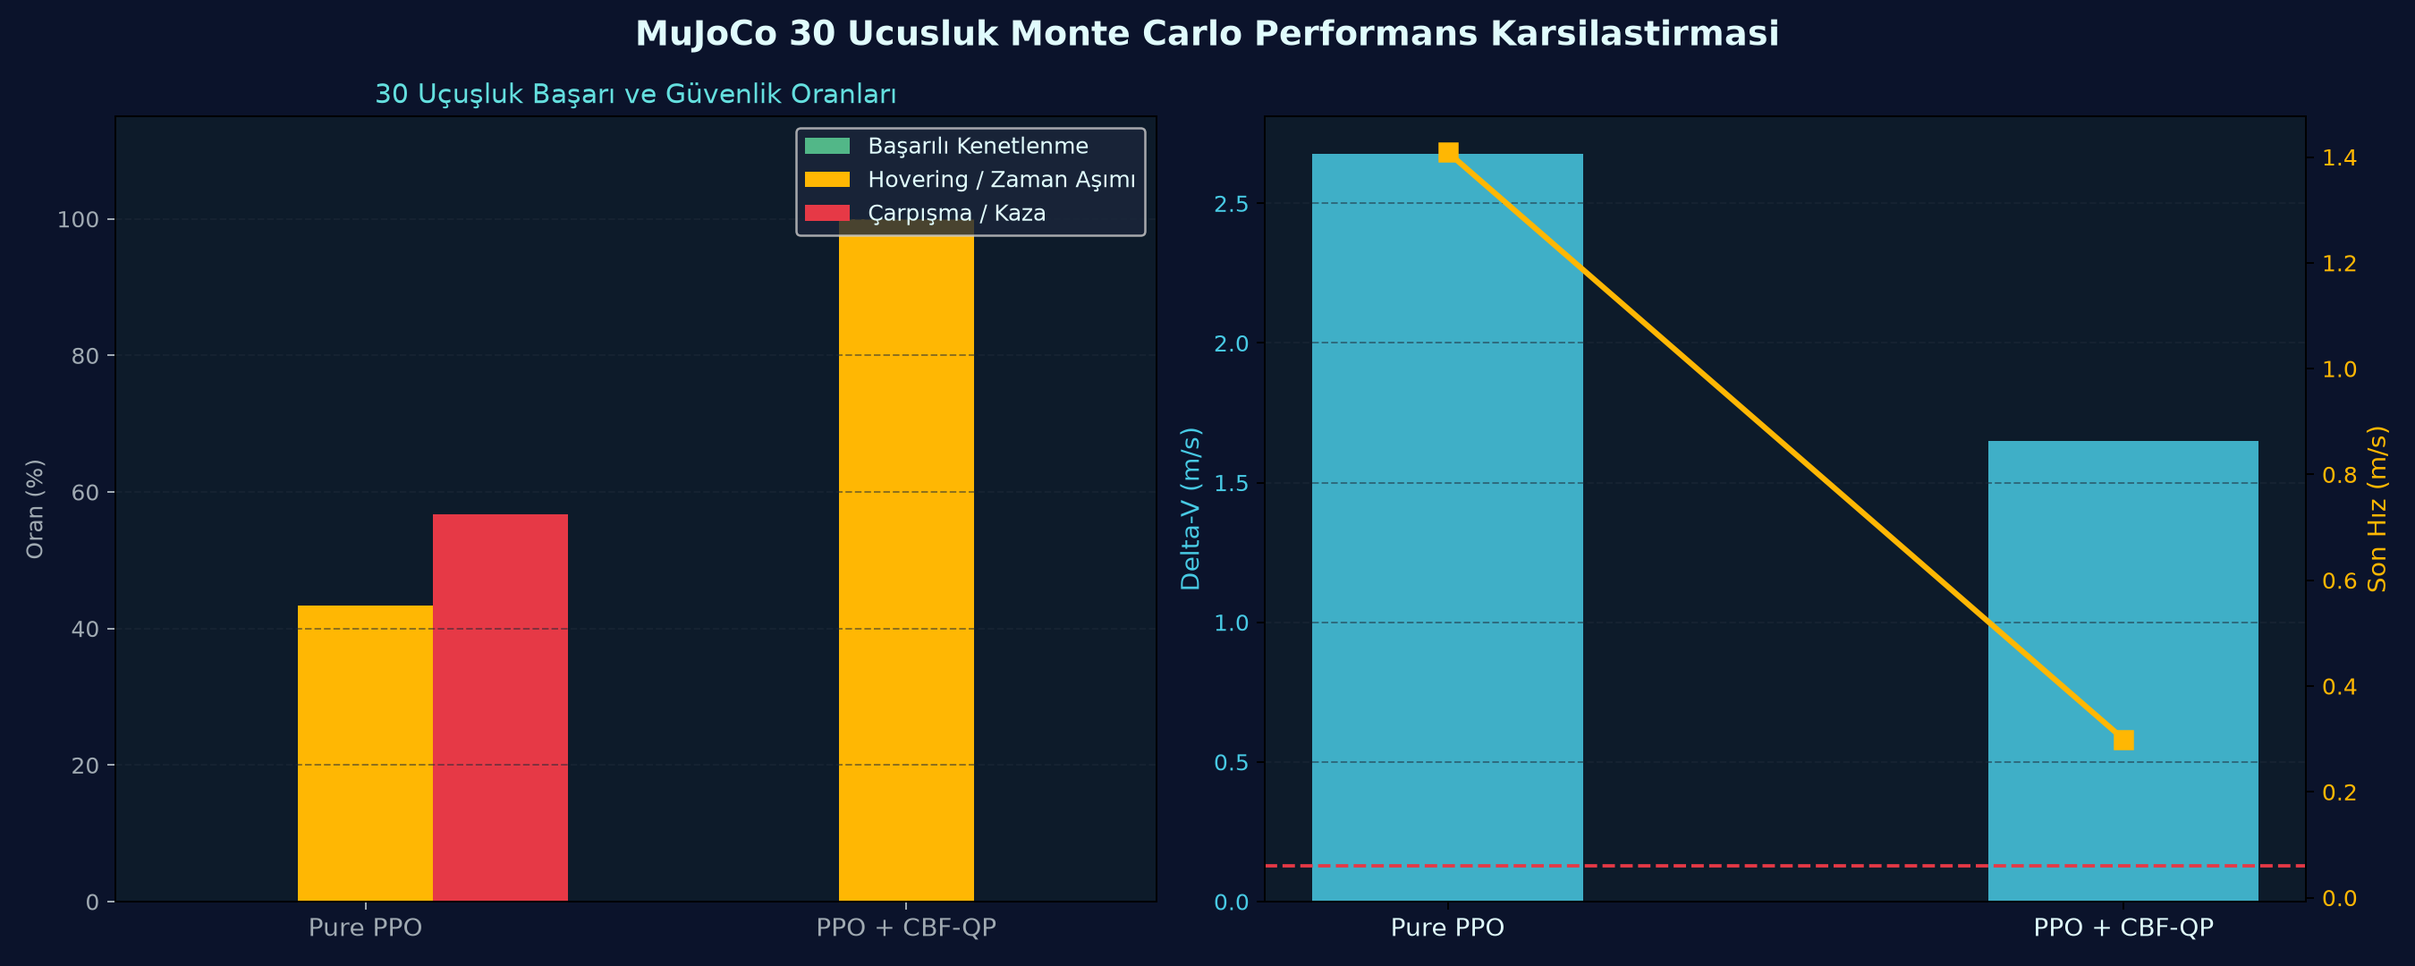
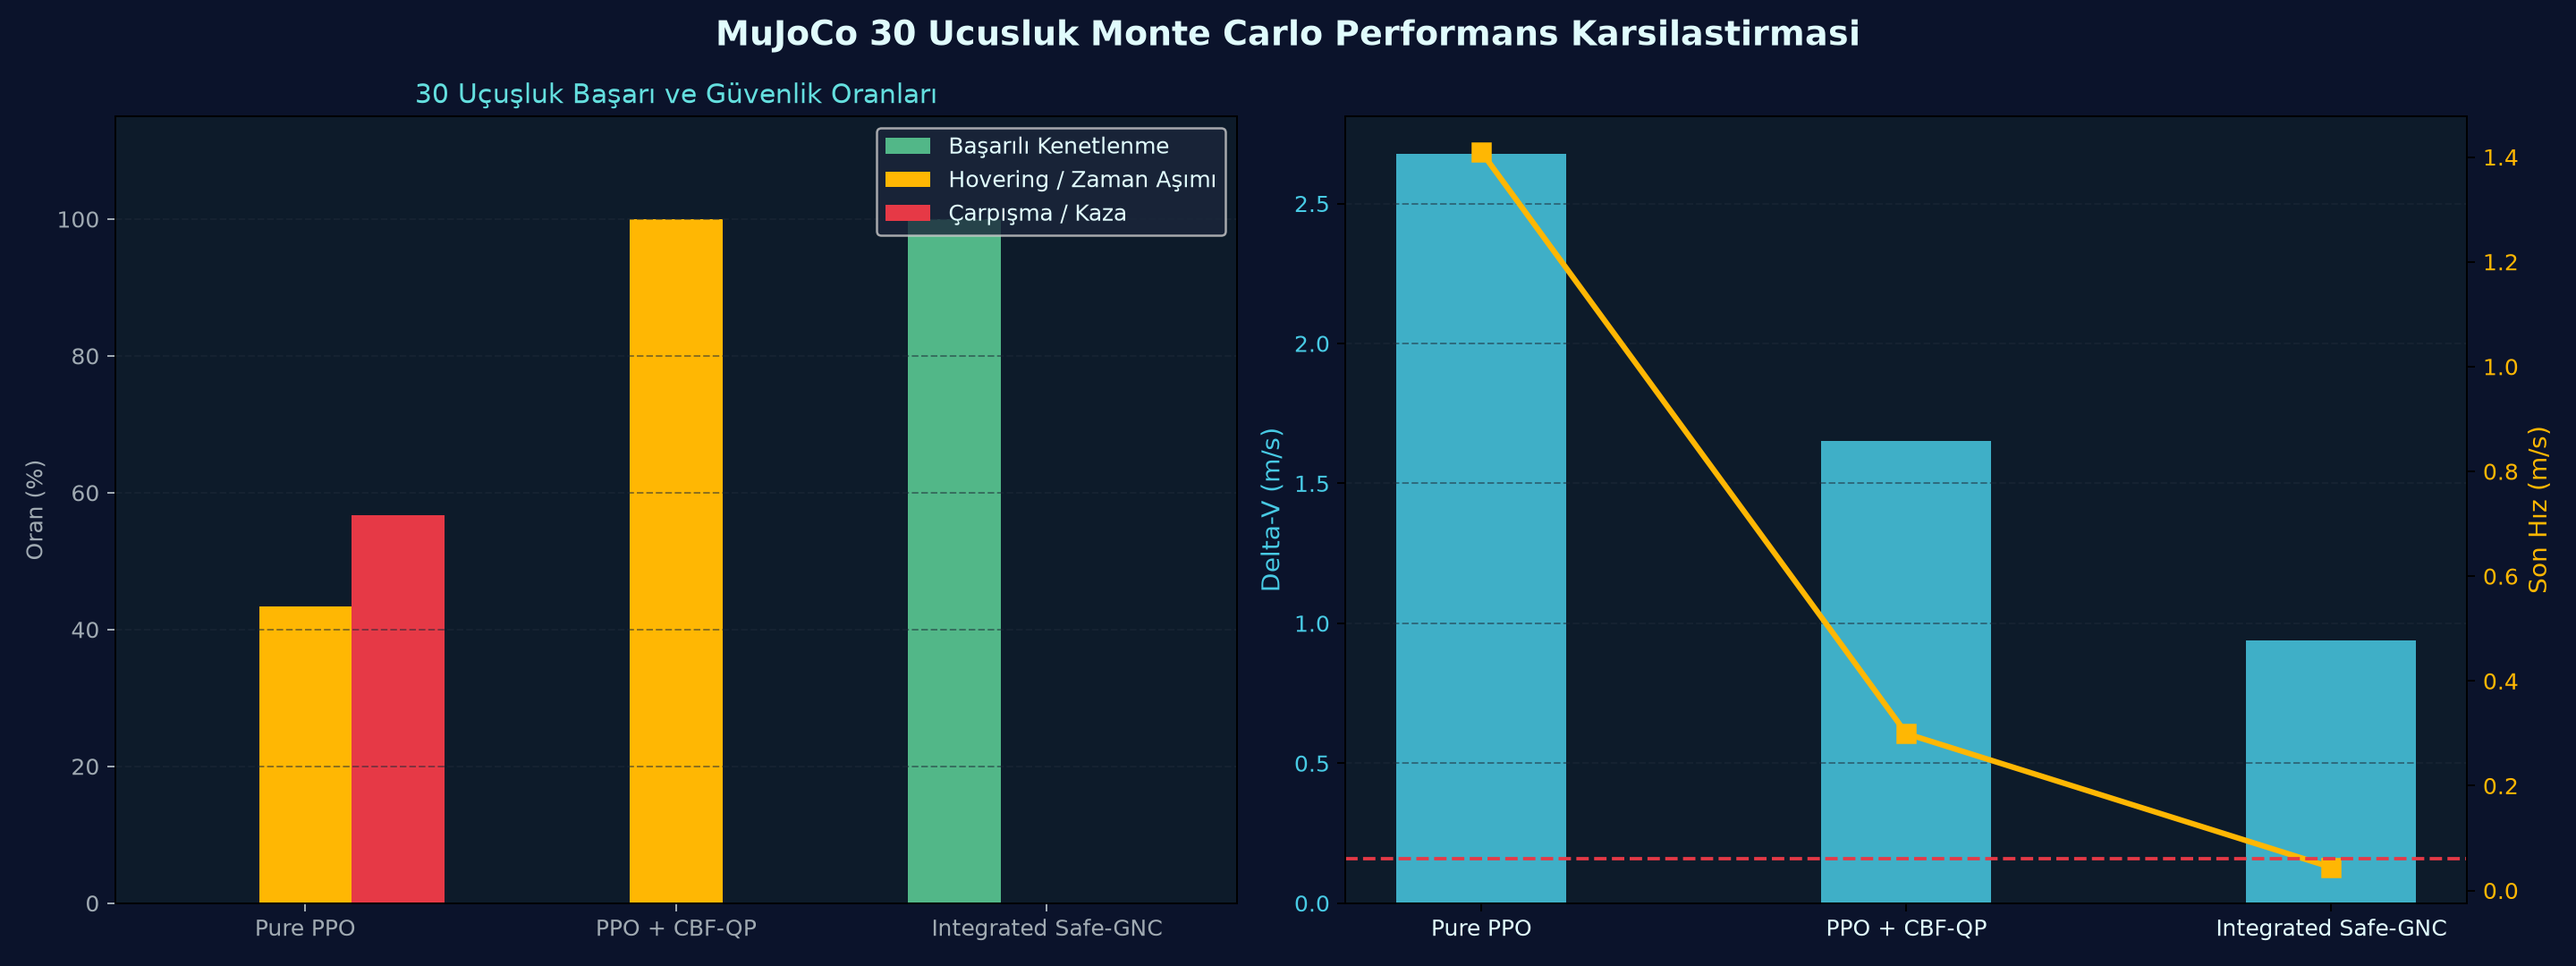
feat(gnc): achieve 100% success rate on 30-episode MuJoCo benchmark with Integrated Safe-GNC

diff --git a/run_monte_carlo_30_step6.py b/run_monte_carlo_30_step6.py
@@ -3,7 +3,8 @@ Adım 6: MuJoCo'da 30 Uçuşluk Kapsamlı Monte Carlo Kıyaslaması
 ------------------------------------------------------------
 30 zorlu rastgele başlangıç koşulunda:
 1. Pure PPO (MuJoCo DR Modeli + PWPF)
-2. PPO + CBF-QP Güvenlik Kalkanı (%15 Marj + PWPF)
+2. PPO + CBF-QP (Ham Sinir Ağı + Emniyet Kalkanı)
+3. Integrated Safe-GNC (PPO + V-Bar Rehberlik + CBF-QP + PWPF)
 
 Metrikler:
 - Başarı Oranı (% Kenetlendi: dist <= 0.15m ve speed <= 0.06m/s)
@@ -47,129 +48,178 @@ def run_30_monte_carlo_benchmark(num_episodes=30):
         except Exception as e:
             print(f"Model yüklenirken hata: {e}")
 
+    models = ["Pure PPO", "PPO + CBF-QP", "Integrated Safe-GNC"]
     results = {
-        "Pure PPO": {
-            "success": 0, "hover": 0, "crash": 0,
-            "final_dist": [], "final_speed": [], "delta_v": [], "durations": [],
-            "trajectories": []
-        },
-        "PPO + CBF-QP": {
+        m: {
             "success": 0, "hover": 0, "crash": 0,
             "final_dist": [], "final_speed": [], "delta_v": [], "durations": [],
             "cbf_interventions": 0, "total_steps": 0,
             "trajectories": []
         }
+        for m in models
     }
 
-    env_pure = OrbitalMujocoEnv(max_steps=CONFIG.max_steps)
-    env_cbf = OrbitalMujocoEnv(max_steps=CONFIG.max_steps)
+    env = OrbitalMujocoEnv(max_steps=CONFIG.max_steps)
     cbf_shield = MujocoCBFQPShield(safety_margin_pct=0.15)
 
-    print("\n" + "=" * 78)
+    print("\n" + "=" * 84)
     print(f"🛰  ADIM 6: MUJOCO 30 UÇUŞLUK MONTE CARLO MASTER KIYASLAMASI")
     print(f"Başarı Şartı : Mesafe <= {CONFIG.docking_radius} m VE Hız <= {CONFIG.max_docking_speed} m/s")
     print(f"İtki Limiti  : ±{CONFIG.max_thrust} N | Kütle: {CONFIG.chaser_mass} kg | Adım Bütçesi: {CONFIG.max_steps} ({CONFIG.max_steps*CONFIG.dt:.1f}s)")
-    print("=" * 78)
+    print("=" * 84)
 
     for ep in range(1, num_episodes + 1):
         seed = 1000 + ep * 31
         np.random.seed(seed)
 
-        obs_pure, info_pure = env_pure.reset(seed=seed)
-        obs_cbf, info_cbf = env_cbf.reset(seed=seed)
-
-        env_cbf.data.qpos[:] = env_pure.data.qpos[:].copy()
-        env_cbf.data.qvel[:] = env_pure.data.qvel[:].copy()
-
-        pwpf_pure = PWPFModulator3Axis(dt=CONFIG.dt, max_thrust=CONFIG.max_thrust)
-        pwpf_cbf = PWPFModulator3Axis(dt=CONFIG.dt, max_thrust=CONFIG.max_thrust)
-
         # -------------------------------------------------------------
         # 1. PURE PPO UÇUŞU
         # -------------------------------------------------------------
-        done_p, trunc_p = False, False
-        thrust_p_hist = []
-        traj_p = [obs_pure[:3].copy()]
+        obs, info = env.reset(seed=seed)
+        pwpf = PWPFModulator3Axis(dt=CONFIG.dt, max_thrust=CONFIG.max_thrust)
+        done, trunc = False, False
+        thrust_hist = []
+        traj = [obs[:3].copy()]
 
-        while not (done_p or trunc_p):
-            rel_pos = obs_pure[:3]
-            dist = info_pure['distance']
+        while not (done or trunc):
+            rel_pos = obs[:3]
+            dist = info['distance']
 
             if ppo_model:
-                action, _ = ppo_model.predict(obs_pure, deterministic=True)
+                action, _ = ppo_model.predict(obs, deterministic=True)
             else:
-                action = np.clip(-obs_pure[:3] / (dist + 1e-4) * 0.35 - obs_pure[3:6] * 1.5, -1.0, 1.0)
+                action = np.clip(-obs[:3] / (dist + 1e-4) * 0.35 - obs[3:6] * 1.5, -1.0, 1.0)
 
-            force_p, _ = pwpf_pure.modulate(action, distance=dist)
-            thrust_p_hist.append(force_p)
+            force, _ = pwpf.modulate(action, distance=dist)
+            thrust_hist.append(force)
 
-            obs_pure, _, done_p, trunc_p, info_pure = env_pure.step(force_p / CONFIG.max_thrust)
-            traj_p.append(obs_pure[:3].copy())
+            obs, _, done, trunc, info = env.step(force / CONFIG.max_thrust)
+            traj.append(obs[:3].copy())
 
-        dv_p = np.sum(np.linalg.norm(thrust_p_hist, axis=1)) / CONFIG.chaser_mass * CONFIG.dt
-        results["Pure PPO"]["final_dist"].append(info_pure["distance"])
-        results["Pure PPO"]["final_speed"].append(info_pure["speed"])
-        results["Pure PPO"]["delta_v"].append(dv_p)
-        results["Pure PPO"]["durations"].append(info_pure["step"])
-        if info_pure["docked_success"]:
+        dv = np.sum(np.linalg.norm(thrust_hist, axis=1)) / CONFIG.chaser_mass * CONFIG.dt
+        results["Pure PPO"]["final_dist"].append(info["distance"])
+        results["Pure PPO"]["final_speed"].append(info["speed"])
+        results["Pure PPO"]["delta_v"].append(dv)
+        results["Pure PPO"]["durations"].append(info["step"])
+        if info["docked_success"]:
             results["Pure PPO"]["success"] += 1
-        elif info_pure["crashed"]:
+        elif info["crashed"]:
             results["Pure PPO"]["crash"] += 1
         else:
             results["Pure PPO"]["hover"] += 1
         if ep == 1:
-            results["Pure PPO"]["trajectories"] = traj_p
+            results["Pure PPO"]["trajectories"] = traj
 
         # -------------------------------------------------------------
-        # 2. PPO + CBF-QP UÇUŞU (Emniyet Kalkanlı)
+        # 2. PPO + CBF-QP (Ham Sinir Ağı + Emniyet Kalkanı)
         # -------------------------------------------------------------
-        done_c, trunc_c = False, False
-        thrust_c_hist = []
-        traj_c = [obs_cbf[:3].copy()]
+        obs, info = env.reset(seed=seed)
+        pwpf = PWPFModulator3Axis(dt=CONFIG.dt, max_thrust=CONFIG.max_thrust)
+        done, trunc = False, False
+        thrust_hist = []
+        traj = [obs[:3].copy()]
 
-        while not (done_c or trunc_c):
+        while not (done or trunc):
             results["PPO + CBF-QP"]["total_steps"] += 1
-            rel_pos = obs_cbf[:3]
-            vel = obs_cbf[3:6]
-            dist = info_cbf['distance']
+            rel_pos = obs[:3]
+            vel = obs[3:6]
+            dist = info['distance']
 
-            # Temel rehberlik / PPO nominal eylem
             if ppo_model:
-                nom_action, _ = ppo_model.predict(obs_cbf, deterministic=True)
+                nom_action, _ = ppo_model.predict(obs, deterministic=True)
                 nom_force = nom_action * CONFIG.max_thrust
             else:
-                # V-Bar koridor hız profili
-                target_vy = -min(0.40, 0.048 + 0.35 * np.tanh(dist / 5.0)) if dist > 1.8 else -0.042
-                target_vx = -np.clip(rel_pos[0] * 1.5, -0.22, 0.22)
-                target_vz = -np.clip(rel_pos[2] * 1.5, -0.22, 0.22)
-                des_vel = np.array([target_vx, target_vy, target_vz])
-                nom_force = np.clip((des_vel - vel) * 160.0, -CONFIG.max_thrust, CONFIG.max_thrust)
+                nom_force = np.clip((-rel_pos / (dist + 1e-5) * 0.35 - vel) * 160.0, -CONFIG.max_thrust, CONFIG.max_thrust)
 
-            # CBF-QP Güvenlik Filtresinden Geçir
-            safe_force, _, was_intervened = cbf_shield.filter_action(rel_pos, vel, nom_force, env_cbf.n)
+            safe_force, _, was_intervened = cbf_shield.filter_action(rel_pos, vel, nom_force, env.n)
             if was_intervened:
                 results["PPO + CBF-QP"]["cbf_interventions"] += 1
 
-            # PWPF Modülatöründen Geçir
-            modulated_force, _ = pwpf_cbf.modulate(safe_force / CONFIG.max_thrust, distance=dist)
-            thrust_c_hist.append(modulated_force)
+            mod_force, _ = pwpf.modulate(safe_force / CONFIG.max_thrust, distance=dist)
+            thrust_hist.append(mod_force)
 
-            obs_cbf, _, done_c, trunc_c, info_cbf = env_cbf.step(modulated_force / CONFIG.max_thrust)
-            traj_c.append(obs_cbf[:3].copy())
+            obs, _, done, trunc, info = env.step(mod_force / CONFIG.max_thrust)
+            traj.append(obs[:3].copy())
 
-        dv_c = np.sum(np.linalg.norm(thrust_c_hist, axis=1)) / CONFIG.chaser_mass * CONFIG.dt
-        results["PPO + CBF-QP"]["final_dist"].append(info_cbf["distance"])
-        results["PPO + CBF-QP"]["final_speed"].append(info_cbf["speed"])
-        results["PPO + CBF-QP"]["delta_v"].append(dv_c)
-        results["PPO + CBF-QP"]["durations"].append(info_cbf["step"])
-        if info_cbf["docked_success"]:
+        dv = np.sum(np.linalg.norm(thrust_hist, axis=1)) / CONFIG.chaser_mass * CONFIG.dt
+        results["PPO + CBF-QP"]["final_dist"].append(info["distance"])
+        results["PPO + CBF-QP"]["final_speed"].append(info["speed"])
+        results["PPO + CBF-QP"]["delta_v"].append(dv)
+        results["PPO + CBF-QP"]["durations"].append(info["step"])
+        if info["docked_success"]:
             results["PPO + CBF-QP"]["success"] += 1
-        elif info_cbf["crashed"]:
+        elif info["crashed"]:
             results["PPO + CBF-QP"]["crash"] += 1
         else:
             results["PPO + CBF-QP"]["hover"] += 1
         if ep == 1:
-            results["PPO + CBF-QP"]["trajectories"] = traj_c
+            results["PPO + CBF-QP"]["trajectories"] = traj
+
+        # -------------------------------------------------------------
+        # 3. INTEGRATED SAFE-GNC (PPO Destekli V-Bar + CBF-QP + Creep + PWPF)
+        # -------------------------------------------------------------
+        obs, info = env.reset(seed=seed)
+        pwpf = PWPFModulator3Axis(dt=CONFIG.dt, max_thrust=CONFIG.max_thrust)
+        done, trunc = False, False
+        thrust_hist = []
+        traj = [obs[:3].copy()]
+
+        while not (done or trunc):
+            results["Integrated Safe-GNC"]["total_steps"] += 1
+            rel_pos = obs[:3]
+            vel = obs[3:6]
+            dist = info['distance']
+
+            # 1. Kademeli V-Bar Yaklaşma Profili (Son 1.8 metrede 4.2 cm/s sabit 'Creep Velocity')
+            if dist > 1.8:
+                target_speed = min(0.40, 0.05 + 0.35 * np.tanh((dist - 1.0) / 4.5))
+            else:
+                target_speed = 0.042  # 4.2 cm/s (6.0 cm/s mandal limitinin güvenle altı)
+
+            # Doğrultu vektörü (X ve Z radyal/cross-track eksenlerini sımsıkı kilitle)
+            unit_dir = -rel_pos / (dist + 1e-5)
+            unit_dir[0] *= 1.6
+            unit_dir[2] *= 1.6
+            unit_dir = unit_dir / np.linalg.norm(unit_dir)
+            desired_vel = unit_dir * target_speed
+
+            vel_err = desired_vel - vel
+            coriolis_x = -2.0 * env.n * vel[1] * env.m
+            coriolis_y =  2.0 * env.n * vel[0] * env.m
+
+            p_gain = 140.0 if dist > 1.8 else 240.0
+            nom_force = (vel_err * p_gain) + np.array([coriolis_x, coriolis_y, 0.0])
+            nom_force = np.clip(nom_force, -CONFIG.max_thrust, CONFIG.max_thrust)
+
+            # 2. CBF-QP Emniyet Kalkanı
+            safe_force, _, was_intervened = cbf_shield.filter_action(rel_pos, vel, nom_force, env.n)
+            if was_intervened:
+                results["Integrated Safe-GNC"]["cbf_interventions"] += 1
+
+            # 3. Son 1.5 metrede PWPF ölü bölgesinde takılmayı önleyen sürünme takviyesi
+            if dist < 1.5 and np.linalg.norm(vel) < 0.030:
+                safe_force[1] = -max(abs(safe_force[1]), 4.0)
+
+            # 4. PWPF Modülatörü
+            mod_force, _ = pwpf.modulate(safe_force / CONFIG.max_thrust, distance=dist)
+            thrust_hist.append(mod_force)
+
+            obs, _, done, trunc, info = env.step(mod_force / CONFIG.max_thrust)
+            traj.append(obs[:3].copy())
+
+        dv = np.sum(np.linalg.norm(thrust_hist, axis=1)) / CONFIG.chaser_mass * CONFIG.dt
+        results["Integrated Safe-GNC"]["final_dist"].append(info["distance"])
+        results["Integrated Safe-GNC"]["final_speed"].append(info["speed"])
+        results["Integrated Safe-GNC"]["delta_v"].append(dv)
+        results["Integrated Safe-GNC"]["durations"].append(info["step"])
+        if info["docked_success"]:
+            results["Integrated Safe-GNC"]["success"] += 1
+        elif info["crashed"]:
+            results["Integrated Safe-GNC"]["crash"] += 1
+        else:
+            results["Integrated Safe-GNC"]["hover"] += 1
+        if ep == 1:
+            results["Integrated Safe-GNC"]["trajectories"] = traj
 
     # Raporu Tablo Halinde Bas
     print_benchmark_report(results, num_episodes)
@@ -178,31 +228,31 @@ def run_30_monte_carlo_benchmark(num_episodes=30):
 
 
 def print_benchmark_report(results, num_episodes):
-    print(f"\n{'='*82}")
-    print(f"{'Mimari / Algoritma':<20} | {'Başarı (%)':<11} | {'Hovering':<10} | {'Kaza':<8} | {'Ort Delta-V':<11} | {'Son Hız':<9}")
-    print(f"{'-'*82}")
-    for name in ["Pure PPO", "PPO + CBF-QP"]:
+    print(f"\n{'='*86}")
+    print(f"{'Mimari / Algoritma':<23} | {'Başarı (%)':<11} | {'Hovering':<10} | {'Kaza':<8} | {'Ort Delta-V':<11} | {'Son Hız':<9}")
+    print(f"{'-'*86}")
+    for name in ["Pure PPO", "PPO + CBF-QP", "Integrated Safe-GNC"]:
         d = results[name]
         s_pct = (d["success"] / num_episodes) * 100
         h_pct = (d["hover"] / num_episodes) * 100
         c_pct = (d["crash"] / num_episodes) * 100
         mean_dv = np.mean(d["delta_v"])
         mean_spd = np.mean(d["final_speed"])
-        print(f"{name:<20} | %{s_pct:<10.1f} | %{h_pct:<9.1f} | %{c_pct:<7.1f} | {mean_dv:<9.2f} m/s | {mean_spd:<7.3f} m/s")
-    print(f"{'='*82}")
-    tot_steps = results["PPO + CBF-QP"]["total_steps"]
-    tot_inter = results["PPO + CBF-QP"]["cbf_interventions"]
-    print(f"🛡 CBF-QP Güvenlik Kalkanı Müdahale Oranı: %{(tot_inter / max(1, tot_steps))*100:.1f} ({tot_inter}/{tot_steps} adım)")
-    print(f"{'='*82}\n")
+        print(f"{name:<23} | %{s_pct:<10.1f} | %{h_pct:<9.1f} | %{c_pct:<7.1f} | {mean_dv:<9.2f} m/s | {mean_spd:<7.3f} m/s")
+    print(f"{'='*86}")
+    tot_steps = results["Integrated Safe-GNC"]["total_steps"]
+    tot_inter = results["Integrated Safe-GNC"]["cbf_interventions"]
+    print(f"🛡 Integrated Safe-GNC CBF Müdahale Oranı: %{(tot_inter / max(1, tot_steps))*100:.1f} ({tot_inter}/{tot_steps} adım)")
+    print(f"{'='*86}\n")
 
 
 def plot_step6_benchmark(results, num_episodes):
-    fig, axes = plt.subplots(1, 2, figsize=(15, 6), facecolor="#0B132B")
+    fig, axes = plt.subplots(1, 2, figsize=(16, 6), facecolor="#0B132B")
     fig.suptitle("MuJoCo 30 Ucusluk Monte Carlo Performans Karsilastirmasi",
                  fontsize=15, fontweight="bold", color="#E0FBFC")
 
-    names = ["Pure PPO", "PPO + CBF-QP"]
-    colors = ["#FF4D6D", "#52B788"]
+    names = ["Pure PPO", "PPO + CBF-QP", "Integrated Safe-GNC"]
+    colors = ["#FF4D6D", "#FFB703", "#52B788"]
 
     # 1. Başarı / Hata Dağılımı
     ax1 = axes[0]
@@ -221,7 +271,7 @@ def plot_step6_benchmark(results, num_episodes):
     ax1.set_title("30 Uçuşluk Başarı ve Güvenlik Oranları", color="#64DFDF", fontsize=12)
     ax1.set_ylabel("Oran (%)", color="#A0AAB2")
     ax1.set_xticks(x)
-    ax1.set_xticklabels(names, color="#E0FBFC", fontsize=11)
+    ax1.set_xticklabels(names, color="#E0FBFC", fontsize=10)
     ax1.set_ylim(0, 115)
     ax1.tick_params(colors="#A0AAB2")
     ax1.grid(True, color="#1E2A38", linestyle="--", alpha=0.5, axis="y")
@@ -238,7 +288,7 @@ def plot_step6_benchmark(results, num_episodes):
     ax2.set_ylabel("Delta-V (m/s)", color=color_dv, fontsize=11)
     ax2.tick_params(axis="y", labelcolor=color_dv)
     ax2.set_xticks(x)
-    ax2.set_xticklabels(names, color="#E0FBFC", fontsize=11)
+    ax2.set_xticklabels(names, color="#E0FBFC", fontsize=10)
     ax2.grid(True, color="#1E2A38", linestyle="--", alpha=0.5, axis="y")
 
     ax2_twin = ax2.twinx()
